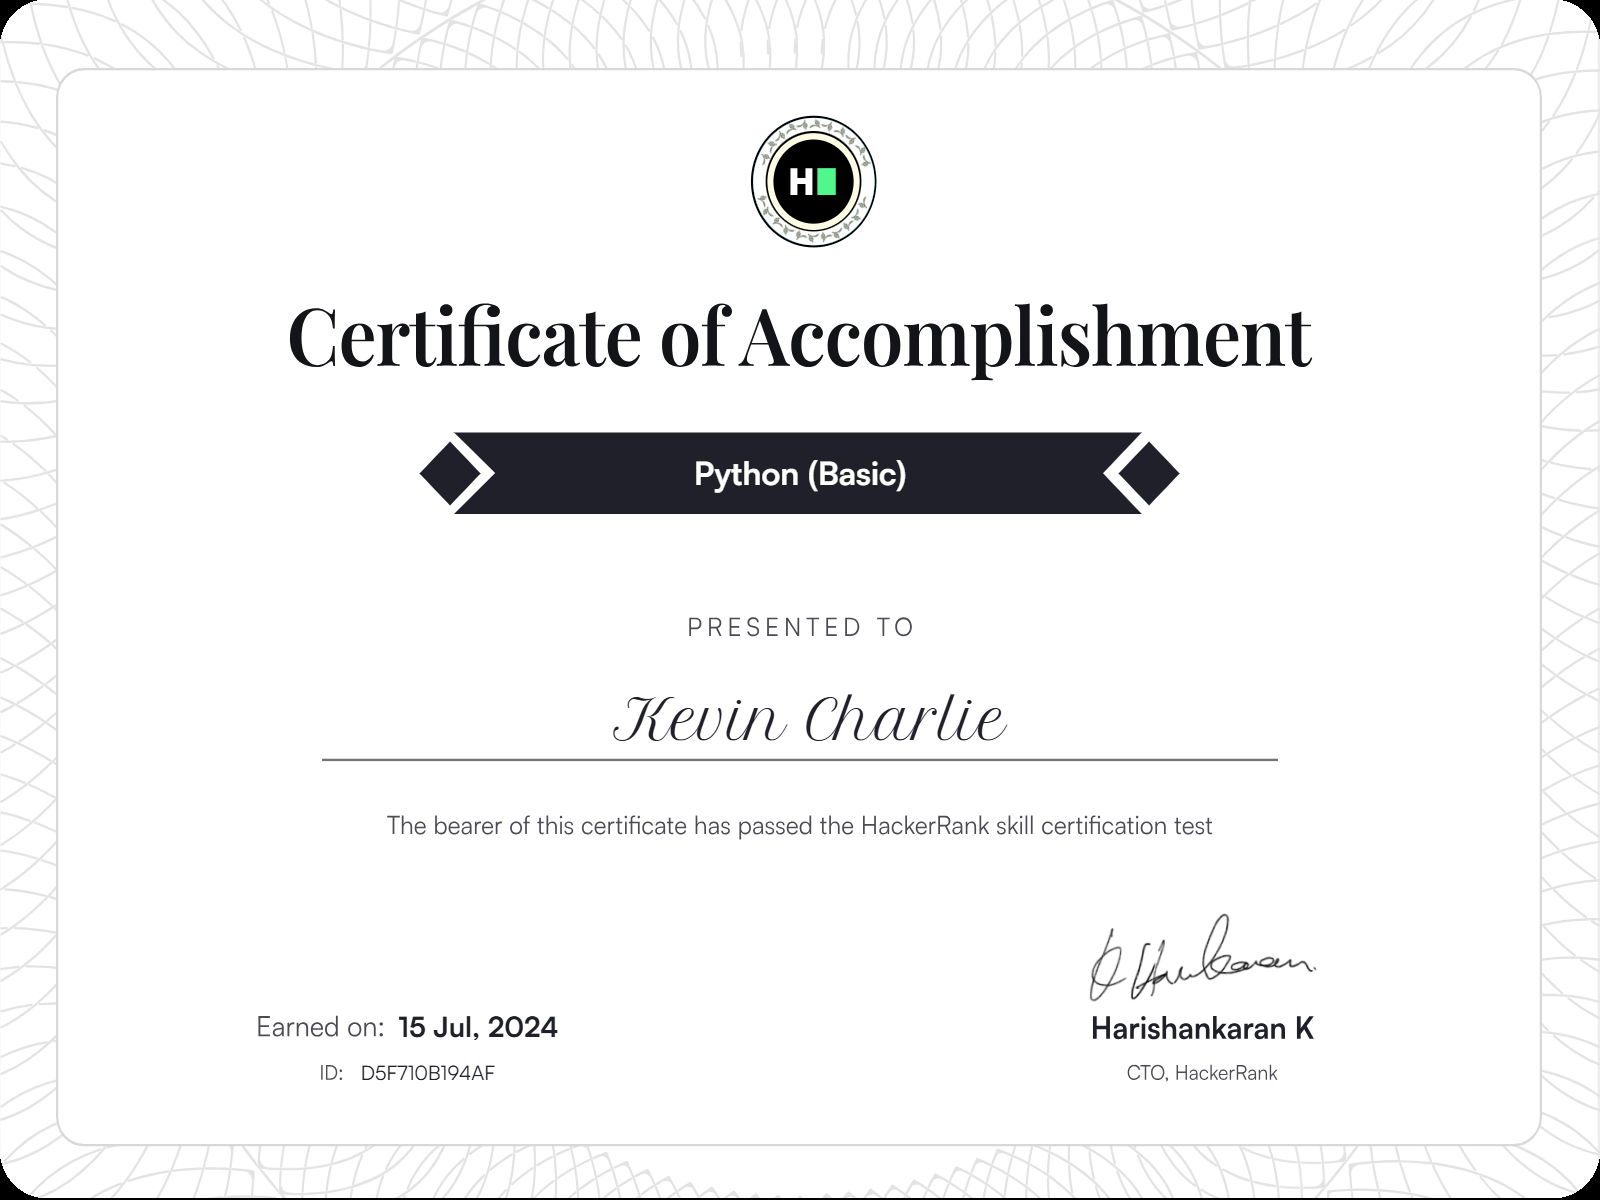
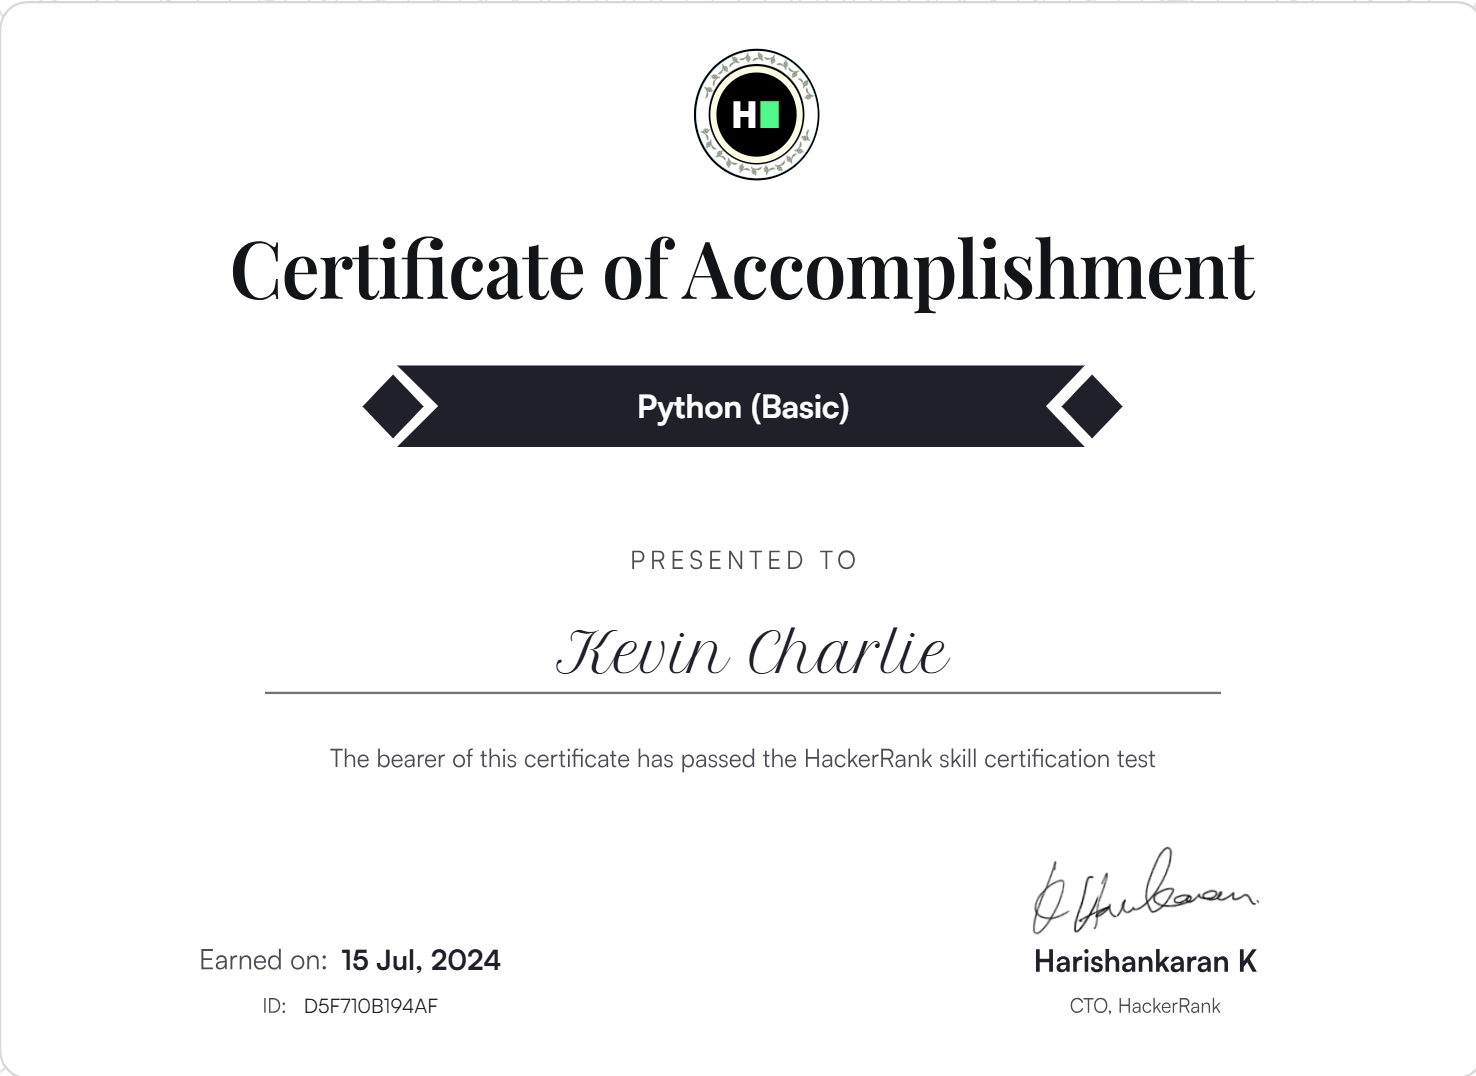
feat: issuer mark on the card, and the certificate fits the card
Three changes to the certificate card, all in the direction of tighter.

The issuer mark. Each card now carries the issuer's brand mark next to their
name, from simple-icons. Grey at rest like every other brand mark on the
page, brand colour on hover, so it never fights the certificate for
attention. src/data/certificates.ts resolves it from a slug, so a new issuer
is one entry in a lookup table.

The card no longer has a mat. The certificate is flush to the card's edges
and the card clips it with its own radius. A padded frame around the document
reads as "an image of a certificate"; flush reads as the certificate itself.
Measured: card padding 0px, and the image fills the frame exactly.

The white gap is fixed, and it was a real bug rather than a taste issue. The
PDF stores the certificate as a 1600x1200 colour image plus a separate soft
mask, and the mask is what draws the rounded corners. Extracting the colour
image on its own flattens those transparent corners to black, which the card's
invert filter then turns white - a bright notch in the corner of every card.
The asset now keeps the alpha, so the corners are genuinely transparent and
the card's surface shows through.

The asset is also cropped to the certificate's inner panel, inside the
ornamental guilloche band. At card size that band is grey mush, and the
parts worth reading are the name, the date and the signature. The frame's
aspect ratio is now 1476 / 1076 to match.
[…]

diff --git a/src/data/certificates.ts b/src/data/certificates.ts
@@ -1,4 +1,11 @@
 import type { ImageMetadata } from "astro";
+import { siHackerrank } from "simple-icons";
+
+/** A brand mark, resolved from `simple-icons` so the data file owns it. */
+export interface IssuerMark {
+	path: string;
+	hex: string;
+}
 
 export interface Certificate {
 	title: string;
@@ -12,10 +19,24 @@ export interface Certificate {
 	issued?: number;
 	/** One line. Omit rather than leaving a gap. */
 	summary?: string;
+	/** The issuer's mark, shown next to their name. */
+	issuerMark?: IssuerMark;
 }
 
 /** As authored: the image is referenced by slug and resolved below. */
-type CertificateInput = Omit<Certificate, "image"> & { image: string };
+type CertificateInput = Omit<Certificate, "image" | "issuerMark"> & {
+	image: string;
+	/** simple-icons slug of the issuer's mark. */
+	issuerIcon?: string;
+};
+
+/**
+ * Issuer marks, keyed by simple-icons slug. Add an entry here when a new
+ * issuer appears - the card renders the mark generically.
+ */
+const issuerMarks: Record<string, IssuerMark> = {
+	hackerrank: { path: siHackerrank.path, hex: siHackerrank.hex },
+};
 
 const certificateImages = import.meta.glob<{ default: ImageMetadata }>(
 	"../assets/certificates/*.{png,jpg,jpeg,webp,avif,svg}",
@@ -33,11 +54,22 @@ const imagesBySlug = new Map<string, ImageMetadata>(
 /**
  * The certificate image is the screenshot embedded in the HackerRank PDF,
  * extracted losslessly rather than re-rendered from the page.
+ *
+ * The PDF stores the certificate as a 1600x1200 RGB image plus a separate
+ * soft mask, and the mask is what draws the rounded corners. Extracting the
+ * colour image on its own flattens those transparent corners to black, which
+ * the card's invert filter then turns white - a bright notch in the corner
+ * of every card. The file in `src/assets/certificates/` keeps the alpha.
+ *
+ * The file is also cropped to the certificate's inner panel, inside the
+ * ornamental guilloche band. At card size that band is grey mush, and the
+ * parts worth reading are the name, the date and the signature.
  */
 const input: CertificateInput[] = [
 	{
 		title: "Python (Basic)",
 		issuer: "HackerRank",
+		issuerIcon: "hackerrank",
 		issued: 2024,
 		verifyUrl: "https://www.hackerrank.com/certificates/d5f710b194af",
 		image: "hackerrank-python-basic",
@@ -50,7 +82,7 @@ const input: CertificateInput[] = [
  * card. A missing file is a content mistake, not something to ship around.
  */
 export const certificates: Certificate[] = input.map(
-	({ image: slug, ...rest }) => {
+	({ image: slug, issuerIcon, ...rest }) => {
 		const image = imagesBySlug.get(slug);
 
 		if (!image) {
@@ -64,6 +96,17 @@ export const certificates: Certificate[] = input.map(
 			);
 		}
 
-		return { ...rest, image };
+		const issuerMark = issuerIcon ? issuerMarks[issuerIcon] : undefined;
+
+		if (issuerIcon && !issuerMark) {
+			throw new Error(
+				[
+					`[content] Unknown issuer icon "${issuerIcon}" for "${rest.title}".`,
+					`  Known: ${Object.keys(issuerMarks).join(", ") || "(none registered)"}`,
+				].join("\n"),
+			);
+		}
+
+		return { ...rest, image, issuerMark };
 	},
 );

diff --git a/src/styles/global.css b/src/styles/global.css
@@ -445,18 +445,20 @@
 .cert-cards {
     display: grid;
     grid-template-columns: repeat(auto-fill, minmax(15rem, 1fr));
-    gap: 1.5rem;
-    margin-top: 1.5rem;
+    gap: 1.25rem;
+    margin-top: 1.25rem;
 }
 
 .cert-card {
     display: flex;
     flex-direction: column;
-    gap: 0.875rem;
     width: 100%;
-    padding: 0.625rem;
     text-align: left;
     cursor: pointer;
+    /* The card clips the certificate, so the certificate's own rounded
+       corners are the card's corners. No mat, no padding - the document is
+       the face of the card. */
+    overflow: hidden;
     border-radius: 0.5rem;
     background-color: var(--palette-surface);
     border: 1px solid rgb(255 255 255 / 0.07);
@@ -470,14 +472,14 @@
     background-color: var(--palette-raised);
 }
 
-/* The document sits inside the card on a raised mat, the way a sheet of
-   paper sits on a desk. */
 .cert-frame {
     display: block;
-    aspect-ratio: 4 / 3;
+    /* Matches the cropped certificate asset: 1476 x 1076. */
+    aspect-ratio: 1476 / 1076;
     overflow: hidden;
-    border-radius: 0.25rem;
-    background-color: var(--palette-raised);
+    /* Inherits the card's surface so the certificate's transparent rounded
+       corners vanish into the card instead of showing a seam. */
+    background-color: inherit;
 }
 
 .cert-image {
@@ -507,12 +509,32 @@
 .cert-meta {
     display: flex;
     flex-direction: column;
-    gap: 0.25rem;
-    padding-bottom: 0.25rem;
+    gap: 0.3125rem;
+    padding: 0.875rem 1rem 1rem;
 }
 
 .cert-title {
     text-wrap: pretty;
+}
+
+.cert-issuer {
+    display: flex;
+    align-items: center;
+    gap: 0.4375rem;
+}
+
+/* The issuer's mark. Grey at rest like every other brand mark on the page,
+   brand colour on hover, so it never fights the certificate for attention. */
+.cert-issuer-mark {
+    width: 0.9375rem;
+    height: 0.9375rem;
+    flex-shrink: 0;
+    color: var(--palette-text-2);
+    transition: color var(--duration-ui) var(--ease-out-apple);
+}
+
+.cert-card:hover .cert-issuer-mark {
+    color: var(--brand);
 }
 
 /* ---------------------------------------------------------------------------

diff --git a/src/components/react/CertificateCards.tsx b/src/components/react/CertificateCards.tsx
@@ -1,4 +1,5 @@
 import { useState } from "react";
+import type { CSSProperties } from "react";
 import { motion, useReducedMotion } from "motion/react";
 import { ArrowUpRight } from "lucide-react";
 
@@ -29,6 +30,8 @@ export interface CertificateItem {
 	issued?: number;
 	summary?: string;
 	image: OptimizedImage;
+	/** The issuer's brand mark, resolved in src/data/certificates.ts. */
+	issuerMark?: { path: string; hex: string };
 	/** Shared UI copy, passed in so it still lives in src/data. */
 	labels: {
 		verifyAction: string;
@@ -111,6 +114,19 @@ export default function CertificateCards({ items }: { items: CertificateItem[] }
 								    WCAG 2.5.3, Label in Name. */}
 								{" "}
 								<span className="cert-issuer text-label uppercase tracking-label text-ink-2">
+									{item.issuerMark && (
+										<svg
+											viewBox="0 0 24 24"
+											fill="currentColor"
+											aria-hidden="true"
+											className="cert-issuer-mark"
+											style={
+												{ "--brand": `#${item.issuerMark.hex}` } as CSSProperties
+											}
+										>
+											<path d={item.issuerMark.path} />
+										</svg>
+									)}
 									{item.issuer}
 									{item.issued ? ` · ${item.issued}` : ""}
 								</span>

diff --git a/docs/DESIGN.md b/docs/DESIGN.md
@@ -159,6 +159,10 @@ The title is set in the **display serif**, not UI type. The page's whole
 typographic voice is Instrument Serif, and a card caption in Inter reads like
 a settings panel rather than a portfolio.
 
+The card has **no mat**: the certificate is flush to the card's edges, and
+the card clips it with its own radius. A padded frame around the document
+reads as "an image of a certificate"; flush reads as the certificate itself.
+
 The cards are a **grid**, so they fill the row horizontally before another row
 appears: three per row at 1152px, so the group grows by one row per three
 certificates rather than one row per certificate. `auto-fill`, not `auto-fit`:
@@ -185,8 +189,28 @@ from the page. The PDF holds one 1600×1200 PNG; extracting it avoids a
 resample. `getImage()` then produces 800/1200 webp for the card and the
 lightbox.
 
+Two things about that extraction matter:
+
+- The PDF stores the colour image and a **separate soft mask**. The mask is
+  what draws the certificate's rounded corners. Extracting the colour image on
+  its own flattens those transparent corners to **black**, which the card's
+  invert filter then turns **white** — a bright notch in the corner of every
+  card. The file keeps the alpha.
+- The file is **cropped to the certificate's inner panel**, inside the
+  ornamental guilloche band. At card size that band is grey mush, and the
+  parts worth reading are the name, the date and the signature. The frame's
+  aspect ratio is `1476 / 1076` to match.
+
 The certificate is real, so the data is real: issued 2024, and an alt text
 naming the issuer, the certification and the date.
+
+### The issuer mark
+
+Each card carries the issuer's **brand mark** next to their name, from
+`simple-icons`. It is grey at rest like every other brand mark on the page
+and picks up its brand colour on hover, so it never fights the certificate
+for attention. `src/data/certificates.ts` resolves it from a slug, so a new
+issuer is one entry in a lookup table.
 
 ## Contact
 
